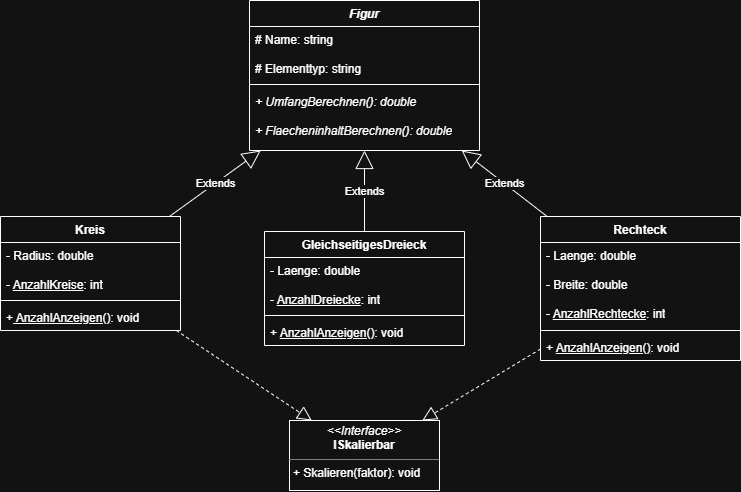
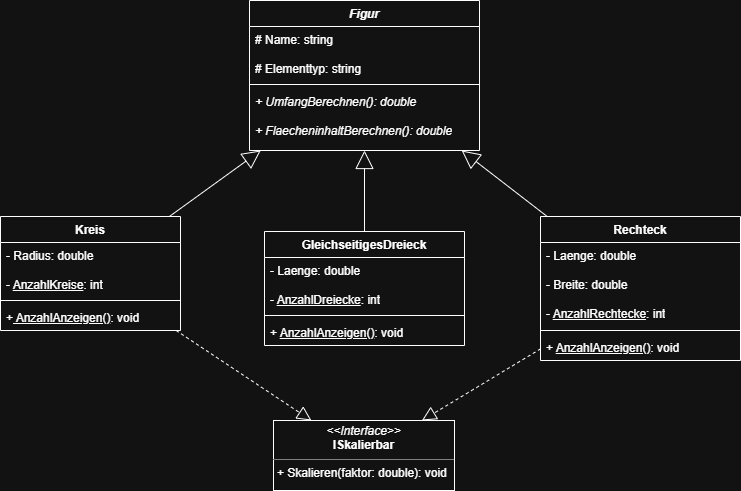
Verbesserung des UML-Diagrammes von Aufgabe 96
Aufgabe 97 - Erweiterung der Aufgabe 96: Einbau der Eigenschaft Faktor für jede Figur, welche beim Skalieren geändert wird, anstelle des Radius/der Längen und Breiten. Der Faktor wird bei jeder Berechnen berücksichtigt/dazugerechnet.

diff --git a/src/SabrinaFeurstein/aufgaben/aufgabe97/Rechteck.cs b/src/SabrinaFeurstein/aufgaben/aufgabe97/Rechteck.cs
@@ -1,0 +1,66 @@
+namespace Appdevhb25.SabrinaFeurstein.aufgaben.aufgabe97
+{
+    public class Rechteck : Figur, ISkalierbar
+    {
+        private double _laenge;
+        private double Laenge
+        {
+            get { return _laenge; }
+            set
+            {
+                if (value > 0)
+                    _laenge = value;
+                else
+                    Console.WriteLine("Länge kann nicht negativ oder null sein!");
+            }
+        }
+        private double _breite;
+        private double Breite
+        {
+            get { return _breite; }
+            set
+            {
+                if (value > 0)
+                    _breite = value;
+                else
+                    Console.WriteLine("Breite kann nicht negativ oder null sein!");
+            }
+        }
+        private static int AnzahlRechtecke { get; set; }
+
+        public Rechteck(string name, double laenge, double breite) : base(name, "Rechteck")
+        {
+            Laenge = laenge;
+            Breite = breite;
+            AnzahlRechtecke++;
+        }
+
+        public static void AnzahlAnzeigen()
+        {
+            if (AnzahlRechtecke == 1)
+                Console.WriteLine($"Es wurde bisher {AnzahlRechtecke} Rechteck erstellt.");
+            else
+                Console.WriteLine($"Es wurden bisher {AnzahlRechtecke} Rechtecke erstellt.");
+        }
+
+        public void Skalieren(double zahl)
+        {
+            Faktor += zahl;
+        }
+
+        public override double UmfangBerechnen()
+        {
+            return Laenge * Faktor * 2 + Breite * Faktor * 2;
+        }
+
+        public override double FlaecheninhaltBerechnen()
+        {
+            return Laenge * Faktor * (Breite * Faktor);
+        }
+
+        public override string ToString()
+        {
+            return $"Name des Elements: {Name}\nTyp:\t\t   {Elementtyp}\nLänge: {Laenge * Faktor,16:F2} cm\nBreite: {Breite * Faktor,15:F2} cm\nUmfang: {UmfangBerechnen(),15:F2} cm\nFlächeninhalt: {FlaecheninhaltBerechnen(),8:F2} cm²";
+        }
+    }
+}

diff --git a/src/SabrinaFeurstein/aufgaben/aufgabe97/Kreis.cs b/src/SabrinaFeurstein/aufgaben/aufgabe97/Kreis.cs
@@ -1,0 +1,53 @@
+namespace Appdevhb25.SabrinaFeurstein.aufgaben.aufgabe97
+{
+    public class Kreis : Figur, ISkalierbar
+    {
+        private double _radius;
+        private double Radius
+        {
+            get { return _radius; }
+            set
+            {
+                if (value > 0)
+                    _radius = value;
+                else
+                    Console.WriteLine("Radius kann nicht negativ oder null sein!");
+            }
+        }
+        private static int AnzahlKreise { get; set; }
+
+        public Kreis(string name, double radius) : base(name, "Kreis")
+        {
+            Radius = radius;
+            AnzahlKreise++;
+        }
+
+        public static void AnzahlAnzeigen()
+        {
+            if (AnzahlKreise == 1)
+                Console.WriteLine($"Es wurde bisher {AnzahlKreise} Kreis erstellt.");
+            else
+                Console.WriteLine($"Es wurden bisher {AnzahlKreise} Kreise erstellt.");
+        }
+
+        public void Skalieren(double zahl)
+        {
+            Faktor += zahl;
+        }
+
+        public override double UmfangBerechnen()
+        {
+            return Radius * Faktor * 2 * Math.PI;
+        }
+
+        public override double FlaecheninhaltBerechnen()
+        {
+            return Math.Pow(Radius * Faktor, 2) * Math.PI;
+        }
+
+        public override string ToString()
+        {
+            return $"Name des Elements: {Name}\nTyp:\t\t   {Elementtyp}\nRadius: {Radius * Faktor,15:F2} cm\nUmfang: {UmfangBerechnen(),15:F2} cm\nFlächeninhalt: {FlaecheninhaltBerechnen(),8:F2} cm²";
+        }
+    }
+}

diff --git a/src/SabrinaFeurstein/aufgaben/aufgabe97/GleichseitigesDreieck.cs b/src/SabrinaFeurstein/aufgaben/aufgabe97/GleichseitigesDreieck.cs
@@ -1,0 +1,48 @@
+namespace Appdevhb25.SabrinaFeurstein.aufgaben.aufgabe97
+{
+    public class GleichseitigesDreieck : Figur
+    {
+        private double _laenge;
+        private double Laenge
+        {
+            get { return _laenge; }
+            set
+            {
+                if (value > 0)
+                    _laenge = value;
+                else
+                    Console.WriteLine("Seitenlänge kann nicht negativ oder null sein!");
+            }
+        }
+        private static int AnzahlDreiecke { get; set; }
+
+        public GleichseitigesDreieck(string name, double laenge) : base(name, "Gleichseitiges Dreieck")
+        {
+            Laenge = laenge;
+            AnzahlDreiecke++;
+        }
+
+        public static void AnzahlAnzeigen()
+        {
+            if (AnzahlDreiecke == 1)
+                Console.WriteLine($"Es wurde bisher {AnzahlDreiecke} gleichseitiges Dreieck erstellt.");
+            else
+                Console.WriteLine($"Es wurden bisher {AnzahlDreiecke} gleichseitige Dreiecke erstellt.");
+        }
+
+        public override double UmfangBerechnen()
+        {
+            return Laenge * 3;
+        }
+
+        public override double FlaecheninhaltBerechnen()
+        {
+            return Math.Sqrt(3) / 4 * Math.Pow(Laenge, 2);
+        }
+
+        public override string ToString()
+        {
+            return $"Name des Elements: {Name}\nTyp:\t\t   {Elementtyp}\nSeitenLänge: {Laenge,10:F2} cm\nUmfang: {UmfangBerechnen(),15:F2} cm\nFlächeninhalt: {FlaecheninhaltBerechnen(),8:F2} cm²";
+        }
+    }
+}

diff --git a/src/SabrinaFeurstein/aufgaben/aufgabe97/Geometrie.cs b/src/SabrinaFeurstein/aufgaben/aufgabe97/Geometrie.cs
@@ -1,0 +1,27 @@
+namespace Appdevhb25.SabrinaFeurstein.aufgaben.aufgabe97
+{
+    public class Geometrie
+    {
+        public static void Start()
+        {
+            Rechteck rechteck1 = new Rechteck("Cooles Rechteck", 3, 4);
+            GleichseitigesDreieck dreieck1 = new GleichseitigesDreieck("Elegantes Dreieck", 2);
+            GleichseitigesDreieck dreieck2 = new GleichseitigesDreieck("Echtes Dreieck", 5);
+            Kreis kreis1 = new Kreis("Fabulöser Kreis", 4);
+
+            List<Figur> figuren = [rechteck1, dreieck1, dreieck2, kreis1];
+
+            kreis1.Skalieren(2);
+
+            foreach (var figur in figuren)
+            {
+                Console.WriteLine(figur);
+                Console.WriteLine();
+            }
+
+            Rechteck.AnzahlAnzeigen();
+            Kreis.AnzahlAnzeigen();
+            GleichseitigesDreieck.AnzahlAnzeigen();
+        }
+    }
+}

diff --git a/src/SabrinaFeurstein/aufgaben/aufgabe97/Figur.cs b/src/SabrinaFeurstein/aufgaben/aufgabe97/Figur.cs
@@ -1,0 +1,19 @@
+namespace Appdevhb25.SabrinaFeurstein.aufgaben.aufgabe97
+{
+    public abstract class Figur
+    {
+        protected string Name { get; init; }
+        protected string Elementtyp { get; init; }
+        protected double Faktor { get; set; }
+
+        public Figur(string name, string elementtyp)
+        {
+            Name = name;
+            Elementtyp = elementtyp;
+            Faktor = 1;
+        }
+
+        public abstract double UmfangBerechnen();
+        public abstract double FlaecheninhaltBerechnen();
+    }
+}

diff --git a/src/SabrinaFeurstein/aufgaben/aufgabe97/ISkalierbar.cs b/src/SabrinaFeurstein/aufgaben/aufgabe97/ISkalierbar.cs
@@ -1,0 +1,7 @@
+namespace Appdevhb25.SabrinaFeurstein.aufgaben.aufgabe97
+{
+    public interface ISkalierbar
+    {
+        public void Skalieren(double zahl);
+    }
+}
